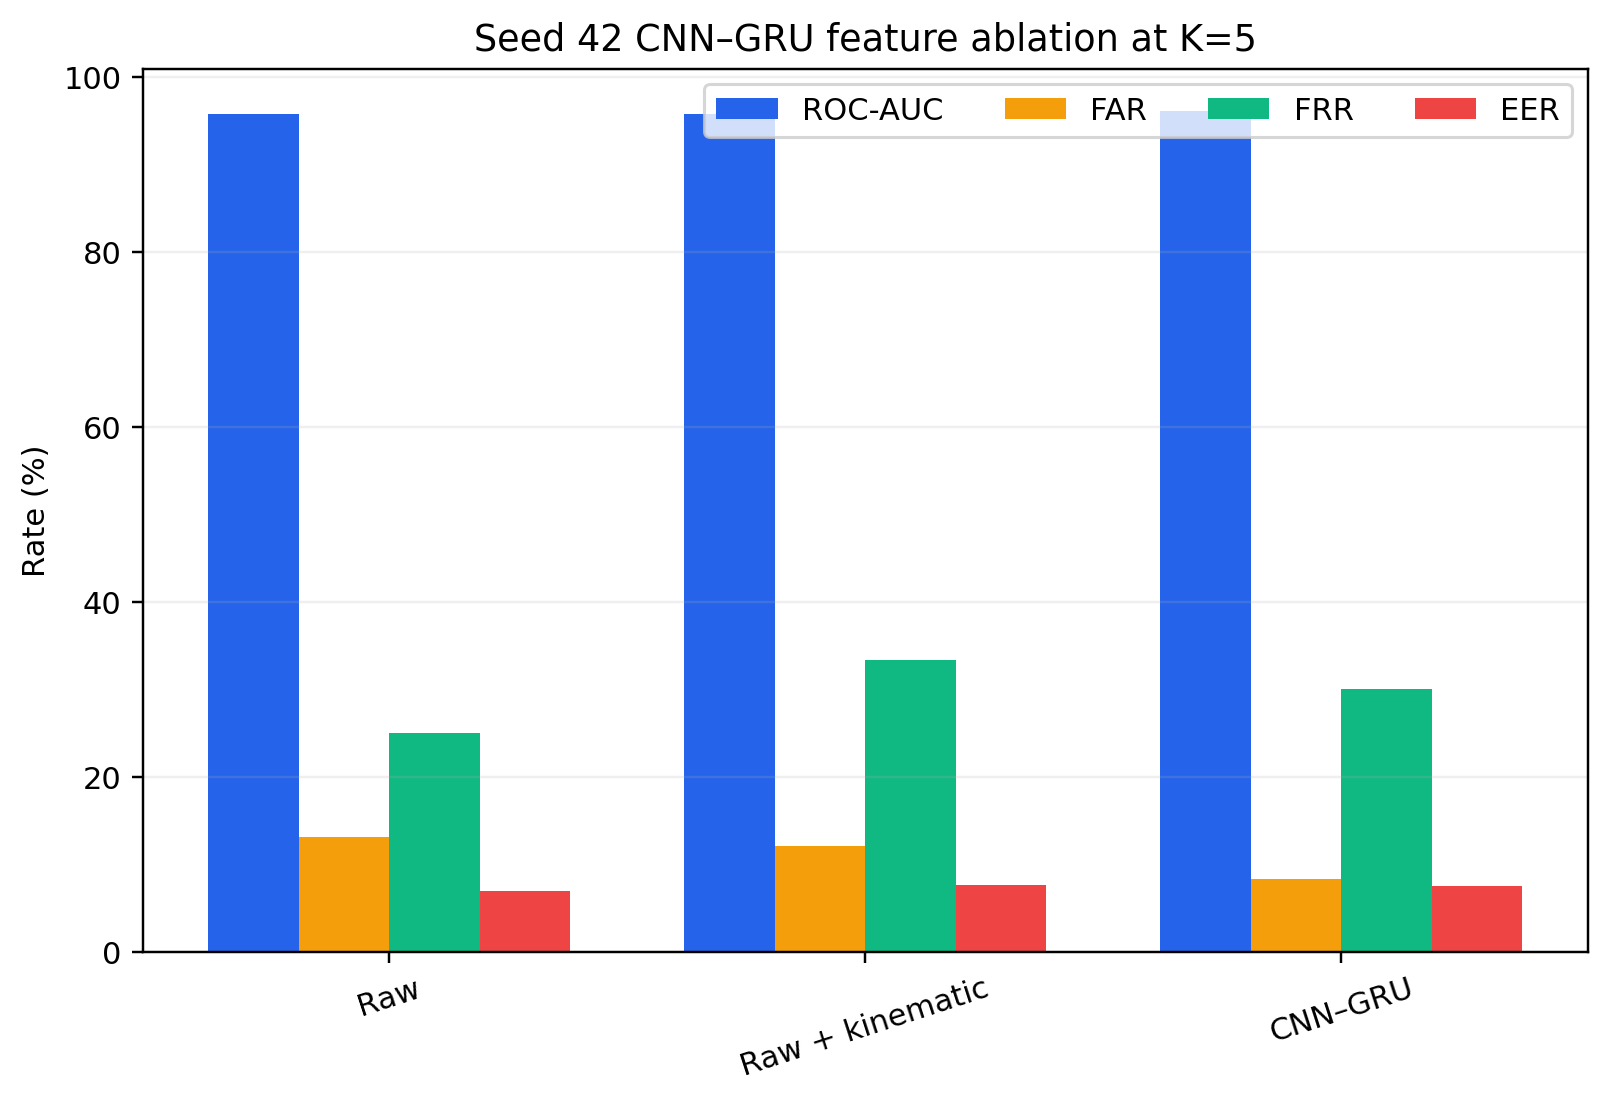
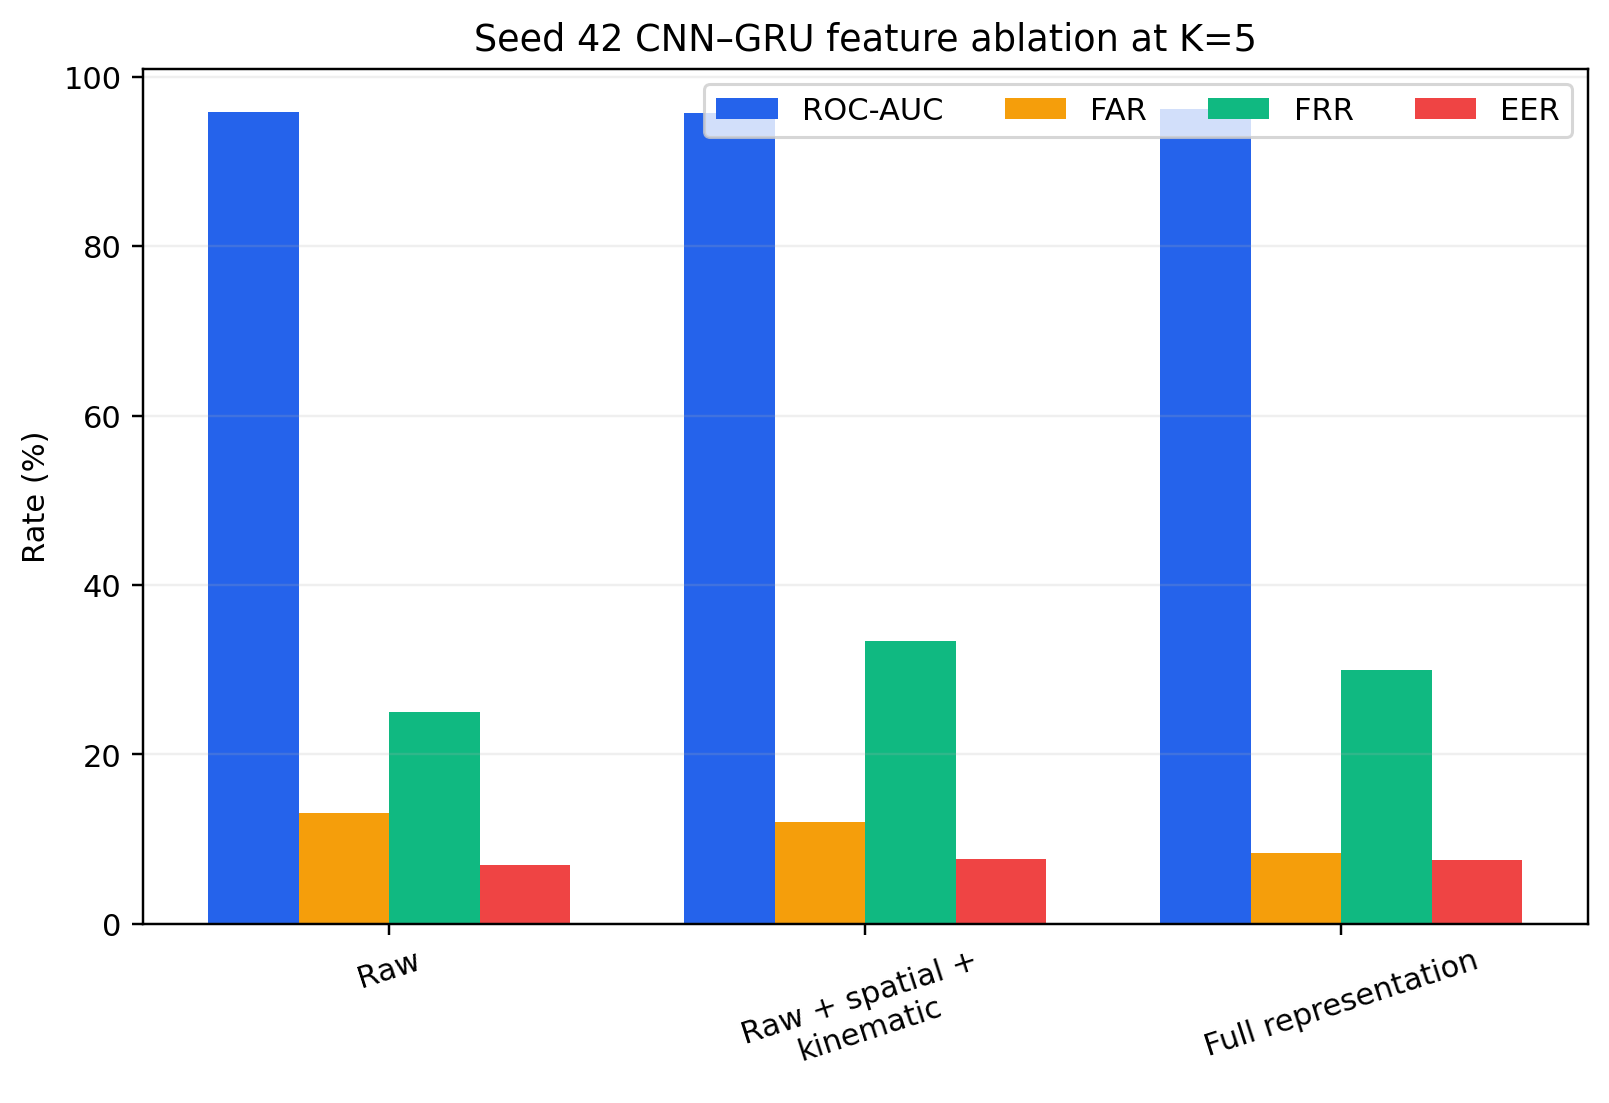
Correct reviewer-facing feature accounting

diff --git a/model/Paper/paper.tex b/model/Paper/paper.tex
@@ -113,7 +113,7 @@ without relabeling the hypotheses after inspection.
 \paragraph{Contributions.}
 This work contributes:
 \begin{enumerate}
-    \item a randomized five-target challenge and a 25-channel,
+    \item a randomized five-target challenge and a 27-channel,
     target-relative representation for short-form cursor verification;
     \item a session-isolated evaluation that distinguishes movement scores,
     $K$-movement decisions, validation calibration, and held-out testing;
@@ -189,7 +189,7 @@ Uses long/passive public datasets rather than a five-target challenge \\
 
 NeuroCursor &
 Randomized point-and-click challenge; 10 identities and 266 sessions &
-25 temporal channels; neural and 113-value classical representations &
+27 temporal channels; neural and 121-value classical representations &
 Session-isolated $K=1,3,5$ decisions and target-relative analysis &
 Small cohort; no device labels, longitudinal external cohort, or direct
 enrollment-size sweep \\
@@ -517,7 +517,7 @@ The complete sequence representation contains normalized cursor coordinates, ela
 \centering
 \caption{NeuroCursor Temporal Feature Channels}
 \label{tab:sequence_features}
-\begin{tabular}{ll}
+\begin{tabular}{@{}lp{5.0cm}@{}}
 \toprule
 \textbf{Group} & \textbf{Features} \\
 \midrule
@@ -530,7 +530,7 @@ $v_x,v_y,v,a_x,a_y,a,j_x,j_y,j$ \\
 Geometric &
 heading, angular velocity, curvature \\
 Target-relative &
-$d_x,d_y,d,c$, heading error, cross-track error \\
+running path efficiency, $d_x,d_y,d,c$, heading error, cross-track error \\
 \bottomrule
 \end{tabular}
 \end{table}
@@ -545,7 +545,7 @@ timing, acceleration energy, jerk energy, and dimensionless jerk. Consequently,
 the full neural and classical inputs contain the same source channels but are
 not the same mathematical representation.
 
-\begin{table}[t]
+\begin{table*}[t]
 \centering
 \caption{Exact Inputs Used by Model Family}
 \label{tab:model_inputs}
@@ -554,11 +554,11 @@ not the same mathematical representation.
 \textbf{Feature set} & $d$ & \textbf{Neural input} & \textbf{Classical input} \\
 \midrule
 Raw & 5 & $128\times5$ & $4d=20$ values \\
-Raw + kinematic & 17 & $128\times17$ & $4d=68$ values \\
-Full & 25 & $128\times25$ & $4d+13=113$ values \\
+Raw + spatial + kinematic & 17 & $128\times17$ & $4d=68$ values \\
+Full & 27 & $128\times27$ & $4d+13=121$ values \\
 \bottomrule
 \end{tabular}
-\end{table}
+\end{table*}
 
 \subsection{Implemented Network Configuration}
 
@@ -762,7 +762,7 @@ Classical baseline & Random forest \\
 Classical baseline & $k$-nearest neighbors \\
 Classical baseline & Gradient boosting \\
 Feature ablation & Raw channels only \\
-Feature ablation & Raw plus kinematic channels \\
+Feature ablation & Raw plus spatial and kinematic channels \\
 Feature ablation & Full target-relative representation \\
 \bottomrule
 \end{tabular}
@@ -771,7 +771,9 @@ Feature ablation & Full target-relative representation \\
 \begin{itemize}
     \item \textbf{Classical baselines:} logistic regression, support-vector machine, random forest, $k$-nearest neighbors, and gradient boosting.
     \item \textbf{Neural baselines:} CNN-only and GRU-only architectures.
-    \item \textbf{Feature ablations:} raw coordinates only, raw coordinates with kinematics, and raw coordinates with both kinematic and target-relative features.
+    \item \textbf{Feature ablations:} the five raw channels; raw, spatial,
+    and kinematic channels; and the full raw, spatial, kinematic, geometric,
+    and target-relative representation.
 \end{itemize}
 
 \subsection{Interaction-Count Evaluation}
@@ -1052,7 +1054,7 @@ Consequently, H3 produced mixed evidence rather than a uniform improvement.
 Features & AUC & FAR & FRR & EER \\
 \midrule
 Raw & 95.77 & 13.11 & 25.00 & 7.00 \\
-Raw + kinematic & 95.72 & 12.07 & 33.33 & 7.64 \\
+Raw + spatial + kinematic & 95.72 & 12.07 & 33.33 & 7.64 \\
 Full representation & 96.13 & 8.31 & 30.00 & 7.56 \\
 \bottomrule
 \end{tabular}
@@ -1075,8 +1077,8 @@ browser and device labels were unavailable.
 A post-hoc grouping of all 121 full-representation summary coefficients makes
 the same pattern explicit (Table~\ref{tab:feature_group_influence}).
 Timing/click features have the largest group mean absolute coefficient, while
-the raw-plus-kinematic ablation has slightly worse AUC, FRR, and EER than raw
-channels alone. Thus, adding differentiated channels does not uniformly help;
+the raw-plus-spatial-and-kinematic ablation has slightly worse AUC, FRR, and
+EER than raw channels alone. Thus, adding differentiated channels does not uniformly help;
 higher-order kinematic variables may add acquisition noise as well as identity
 signal. These coefficient magnitudes are descriptive and correlated features
 can share or exchange weight, so they are not causal importance scores.
@@ -1642,30 +1644,6 @@ OpenAI,
 [Online]. Available:
 \url{https://learn.chatgpt.com/docs/models}.
 Accessed: Jul. 30, 2026.
-
-\bibitem{acien2020BeCAPTCHA}
-A. Acien, A. Morales, J. Fierrez, and R. Vera-Rodriguez,
-``BeCAPTCHA-Mouse: Synthetic mouse trajectories and improved bot detection,''
-\emph{arXiv preprint arXiv:2005.00890}, 2020.
-
-\bibitem{foumaniTimeSeriesSurvey}
-N. M. Foumani, L. Miller, C. W. Tan, G. I. Webb, G. Forestier, and M. Salehi,
-``Deep learning for time series classification and extrinsic regression:
-A current survey,''
-\emph{ACM Computing Surveys}, 2024.
-
-\bibitem{elsayedGRUFCN}
-N. Elsayed, A. S. Maida, and M. Bayoumi,
-``Deep gated recurrent and convolutional network hybrid model for univariate
-time series classification,''
-\emph{International Journal of Advanced Computer Science and Applications},
-vol. 10, no. 5, 2019.
-
-\bibitem{bangCNNGRU}
-J.-S. Bang and S.-W. Lee,
-``Motor imagery classification based on CNN-GRU network with spatio-temporal
-feature representation,''
-\emph{arXiv preprint arXiv:2107.07062}, 2021.
 
 \bibitem{fawcettROC}
 T. Fawcett,

diff --git a/model/Paper/reviewer_analysis.py b/model/Paper/reviewer_analysis.py
@@ -7,6 +7,7 @@ experiment.
 
 from __future__ import annotations
 
+import ast
 import json
 import statistics
 from pathlib import Path
@@ -14,12 +15,68 @@ from pathlib import Path
 
 ROOT = Path(__file__).resolve().parents[2]
 SENSITIVITY = ROOT / "results/paper-real-data-2026-07-29/SENSITIVITY.json"
+MODEL_SOURCE = ROOT / "model/model.py"
+PAPER_SOURCE = ROOT / "model/Paper/paper.tex"
+RESPONSE_SOURCE = ROOT / "model/Paper/response_to_reviewers.tex"
 
-FEATURE_COUNTS = {
-    "raw": 5,
-    "raw-kinematic": 17,
-    "full": 25,
-}
+FEATURE_GROUPS = (
+    "RAW_FEATURES",
+    "SPATIAL_FEATURES",
+    "KINEMATIC_FEATURES",
+    "GEOMETRIC_FEATURES",
+    "TARGET_RELATIVE_FEATURES",
+)
+DERIVED_CLASSICAL_FEATURES = (
+    "duration",
+    "path_length",
+    "straight_distance",
+    "path_efficiency",
+    "mean_speed",
+    "max_speed",
+    "mean_acceleration",
+    "max_acceleration",
+    "pause_duration",
+    "click_timing",
+    "acceleration_energy",
+    "jerk_energy",
+    "dimensionless_jerk",
+)
+
+
+def model_feature_groups() -> dict[str, tuple[str, ...]]:
+    """Read feature tuples from model.py without importing TensorFlow."""
+    module = ast.parse(MODEL_SOURCE.read_text(encoding="utf-8"))
+    groups: dict[str, tuple[str, ...]] = {}
+    for node in module.body:
+        if not isinstance(node, ast.Assign):
+            continue
+        for target in node.targets:
+            if isinstance(target, ast.Name) and target.id in FEATURE_GROUPS:
+                value = ast.literal_eval(node.value)
+                groups[target.id] = tuple(str(item) for item in value)
+    missing = set(FEATURE_GROUPS) - set(groups)
+    if missing:
+        raise AssertionError(f"Missing feature definitions: {sorted(missing)}")
+    return groups
+
+
+def expected_classical_names(features: tuple[str, ...]) -> set[str]:
+    names = {
+        f"{statistic}:{feature}"
+        for statistic in ("mean", "std", "min", "max")
+        for feature in features
+    }
+    names.update(f"derived:{name}" for name in DERIVED_CLASSICAL_FEATURES)
+    return names
+
+
+def verify_document_dimensions() -> None:
+    paper = PAPER_SOURCE.read_text(encoding="utf-8")
+    response = RESPONSE_SOURCE.read_text(encoding="utf-8")
+    for source in (paper, response):
+        assert "128\\times27" in source
+        assert "classical 113" not in source
+        assert "128\\times25" not in source
 
 
 def feature_group(name: str) -> str:
@@ -40,13 +97,31 @@ def feature_group(name: str) -> str:
 
 
 def main() -> None:
-    for name, count in FEATURE_COUNTS.items():
+    groups = model_feature_groups()
+    raw = groups["RAW_FEATURES"]
+    raw_spatial_kinematic = (
+        raw + groups["SPATIAL_FEATURES"] + groups["KINEMATIC_FEATURES"]
+    )
+    full = tuple(
+        feature for group in FEATURE_GROUPS for feature in groups[group]
+    )
+    feature_sets = {
+        "raw": raw,
+        "raw-spatial-kinematic": raw_spatial_kinematic,
+        "full": full,
+    }
+    for name, features in feature_sets.items():
+        count = len(features)
         classical = 4 * count + (13 if name == "full" else 0)
         print(f"{name}: neural=128x{count}; classical={classical}")
 
     document = json.loads(SENSITIVITY.read_text(encoding="utf-8"))
     rows = document["feature_influence"]
-    assert len(rows) == 121
+    actual_names = {str(row["feature"]) for row in rows}
+    expected_names = expected_classical_names(full)
+    assert actual_names == expected_names
+    assert len(rows) == 4 * len(full) + len(DERIVED_CLASSICAL_FEATURES) == 121
+    verify_document_dimensions()
     groups: dict[str, list[float]] = {}
     for row in rows:
         groups.setdefault(feature_group(row["feature"]), []).append(

diff --git a/model/reporting.py b/model/reporting.py
@@ -47,8 +47,13 @@ MODEL_LABELS = {
     "knn__full": "KNN",
     "gradient-boosting__full": "Gradient boosting",
     "cnn-gru__raw": "Raw",
-    "cnn-gru__raw-kinematic": "Raw + kinematic",
+    "cnn-gru__raw-kinematic": "Raw + spatial + kinematic",
     "cnn-gru__full__sample-split": "Random sample-level",
+}
+FEATURE_SET_LABELS = {
+    "cnn-gru__raw": "Raw",
+    "cnn-gru__raw-kinematic": "Raw + spatial + kinematic",
+    "cnn-gru__full": "Full representation",
 }
 COLORS = ("#2563eb", "#f59e0b", "#10b981", "#ef4444", "#8b5cf6")
 
@@ -1182,7 +1187,7 @@ def generate_report(
         metrics = aggregate_k(configurations[name])
         ablation_rows.append(
             {
-                "Features": MODEL_LABELS[name],
+                "Features": FEATURE_SET_LABELS[name],
                 "ROC-AUC": percent(metrics["roc_auc"]),
                 "FAR": percent(metrics["far"]),
                 "FRR": percent(metrics["frr"]),
@@ -1286,7 +1291,8 @@ def generate_report(
         {
             "Group": "Target-relative",
             "Features": (
-                "target displacement x/y, distance, closure rate, "
+                "running path efficiency, target displacement x/y, "
+                "distance, closure rate, "
                 "heading error, cross-track error"
             ),
         },
@@ -1315,7 +1321,10 @@ def generate_report(
         {"Category": "Classical baseline", "Configuration": "k-nearest neighbors"},
         {"Category": "Classical baseline", "Configuration": "Gradient boosting"},
         {"Category": "Feature ablation", "Configuration": "Raw channels"},
-        {"Category": "Feature ablation", "Configuration": "Raw + kinematic"},
+        {
+            "Category": "Feature ablation",
+            "Configuration": "Raw + spatial + kinematic",
+        },
         {"Category": "Feature ablation", "Configuration": "Full target-relative"},
     ]
     training_rows = [
@@ -1585,6 +1594,12 @@ def generate_report(
         ablation_names,
         "Seed 42 CNN–GRU feature ablation at K=5",
         figures / "feature_ablation.png",
+        display_labels=[
+            FEATURE_SET_LABELS[name].replace(
+                " + kinematic", " +\nkinematic"
+            )
+            for name in ablation_names
+        ],
     )
     plot_comparison(
         configurations,
@@ -1917,7 +1932,7 @@ Raw participant data, per-attempt scores, and trained weights are intentionally 
             str(k): aggregate_k(primary, k) for k in (1, 3, 5)
         },
         "feature_ablations": {
-            MODEL_LABELS[name]: aggregate_k(configurations[name])
+            FEATURE_SET_LABELS[name]: aggregate_k(configurations[name])
             for name in ablation_names
         },
         "split_comparison_movement_level": {

diff --git a/model/Paper/response_to_reviewers.tex b/model/Paper/response_to_reviewers.tex
@@ -79,10 +79,10 @@ the neural and classical models use different mathematical representations of
 the same source channels. The revision now states this distinction explicitly.}
 
 \change{The new ``Exact Inputs Used by Model Family'' table reports: raw,
-$d=5$, neural $128\times5$, classical 20 values; raw plus kinematic, $d=17$,
-neural $128\times17$, classical 68 values; and full, $d=25$, neural
-$128\times25$, classical 113 values. Classical vectors contain mean, standard
-deviation, minimum, and maximum for every selected channel. The full vector
+$d=5$, neural $128\times5$, classical 20 values; raw plus spatial and
+kinematic, $d=17$, neural $128\times17$, classical 68 values; and full,
+$d=27$, neural $128\times27$, classical 121 values. Classical vectors contain
+mean, standard deviation, minimum, and maximum for every selected channel. The full vector
 also contains 13 derived statistics: duration, path length, start-to-target
 distance, path efficiency, mean/maximum speed, mean/maximum acceleration,
 pause duration, click timing, acceleration energy, jerk energy, and
@@ -99,8 +99,8 @@ winner. We added a reproducible post-hoc grouping of all 121 standardized
 logistic coefficients across the 30 refitted splits. Timing/click features have
 the largest group mean absolute coefficient (0.796), followed by kinematic
 (0.463) and spatial/geometric/target features (0.393). We also emphasize that
-raw plus kinematic features have slightly worse AUC, FRR, and EER than raw
-channels in the fixed CNN--GRU ablation. This provides evidence consistent with
+raw plus spatial and kinematic features have slightly worse AUC, FRR, and EER
+than raw channels in the fixed CNN--GRU ablation. This provides evidence consistent with
 noise-sensitive differentiation, while explicitly avoiding causal claims.}
 
 \change{The Feature Ablation subsection now includes the grouped analysis and
